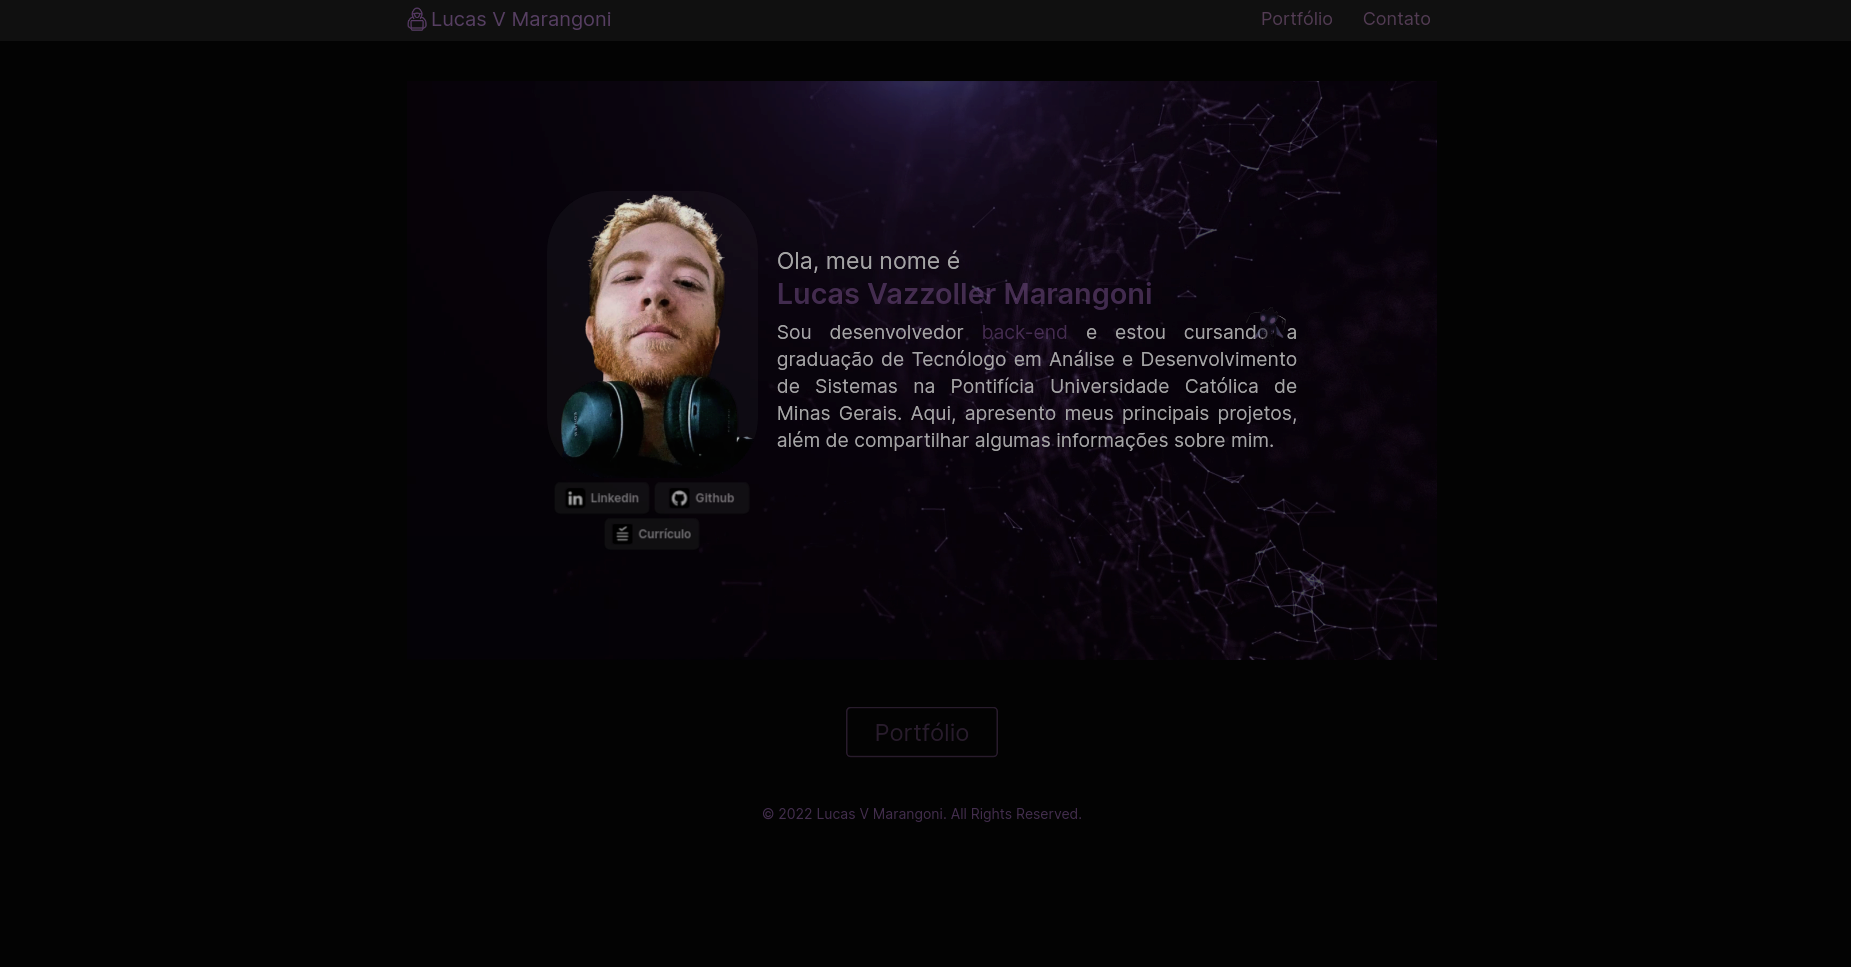
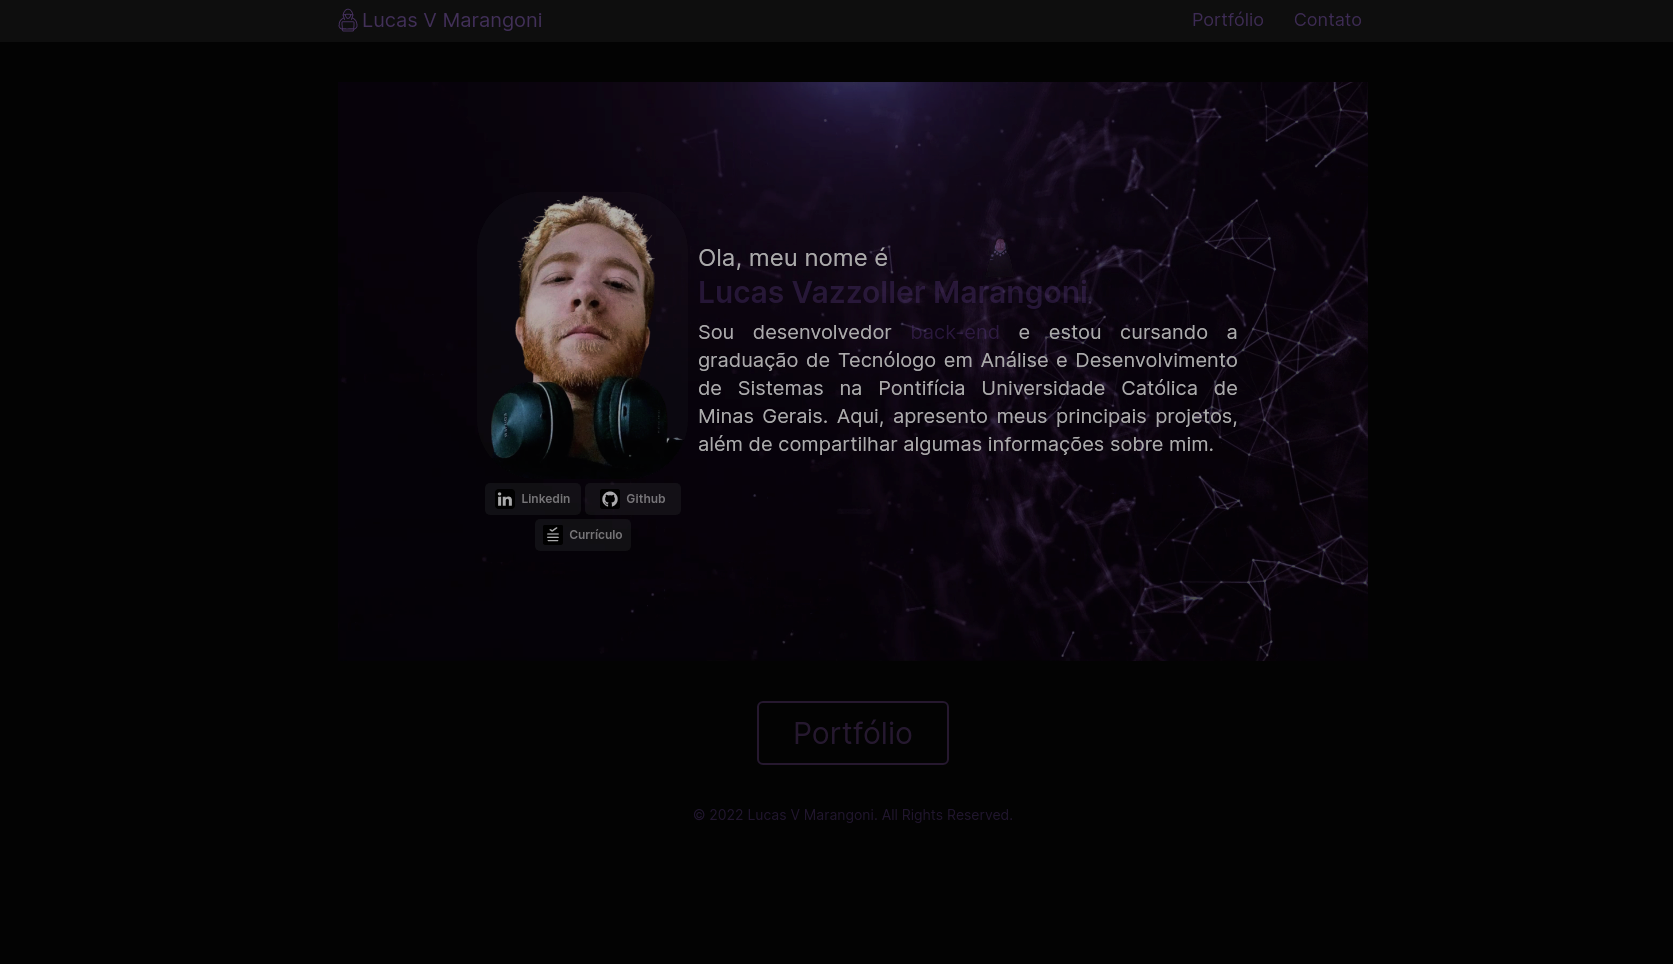
⚒

diff --git a/src/components/Home/Header.tsx b/src/components/Home/Header.tsx
@@ -23,14 +23,14 @@ export function Header() {
         <button
           onMouseOver={OnOver}
           onMouseOut={OnOut}
-          className="text-T1 font-medium text-xl flex gap-1 items-center opacity-50 hover:opacity-70 brightness-150
+          className="text-[#3b27535b] font-medium text-xl flex gap-1 items-center opacity-50 hover:opacity-70 brightness-150
           n4:text-xl
           n5:text-base
           n6:text-base
           n7:text-base
           "
         >
-          <img id="img" className="w-5 opacity-60 brightness-150" src="/logo.png" alt="" />
+          <img id="img" className="w-5 opacity-60" src="/logo.svg" alt="" />
           <Link to="/" className="border-b-2 border-t-2 border-transparent">
             <h1 className="brightness-150">Lucas V Marangoni</h1>
           </Link>

diff --git a/src/components/Home/ButtonPort.tsx b/src/components/Home/ButtonPort.tsx
@@ -3,7 +3,7 @@ import { Link } from "react-router-dom";
 export const ButtonPort = () => {
   return (
     <div
-      className="flex justify-center mt-10 brightness-125     
+      className="flex justify-center mt-10 brightness-150     
     n2:mt-10
     n3:mt-6
     n4:mt-6
@@ -15,8 +15,8 @@ export const ButtonPort = () => {
       <button
         className="w-48 h-16 
         text-3xl font-medium text-T1
-        border-[#55396285] border-[2px] 
-        opacity-50 hover:opacity-70 brightness-150
+        border-[#3b27535b] border-[2px] 
+        opacity-50 hover:opacity-80 brightness-150
         setinha hover:after:right-7          
         n3:w-48 n3:h-16 n3:text-3xl n3:hover:after:right-7
         n4:w-36 n4:h-14 n4:text-2xl n4:hover:after:right-4

diff --git a/src/pages/Portfolio.tsx b/src/pages/Portfolio.tsx
@@ -124,7 +124,7 @@ export const Portfolio = () => {
           "
         />
         <VscSearch
-          color="#55396285"
+          color="#3b275367"
           className="bg-BG  pr-2
            n0:w-8 n0:h-10
            n1:w-8 n1:h-10

diff --git a/src/components/Home/styles.css b/src/components/Home/styles.css
@@ -144,7 +144,7 @@
 }
 
 .active {  
-  border-bottom: 2px solid #55396285;
+  border-bottom: 2px solid #3b27535b;
   padding: 1px;
   
 

diff --git a/src/components/portfolio/styles.css b/src/components/portfolio/styles.css
@@ -45,7 +45,7 @@
   }
   .Icon {
     @apply w-[83px] 
-    bg-BGB 
+    bg-BGB
     rounded-md 
     hover:opacity-70 
     flex 
